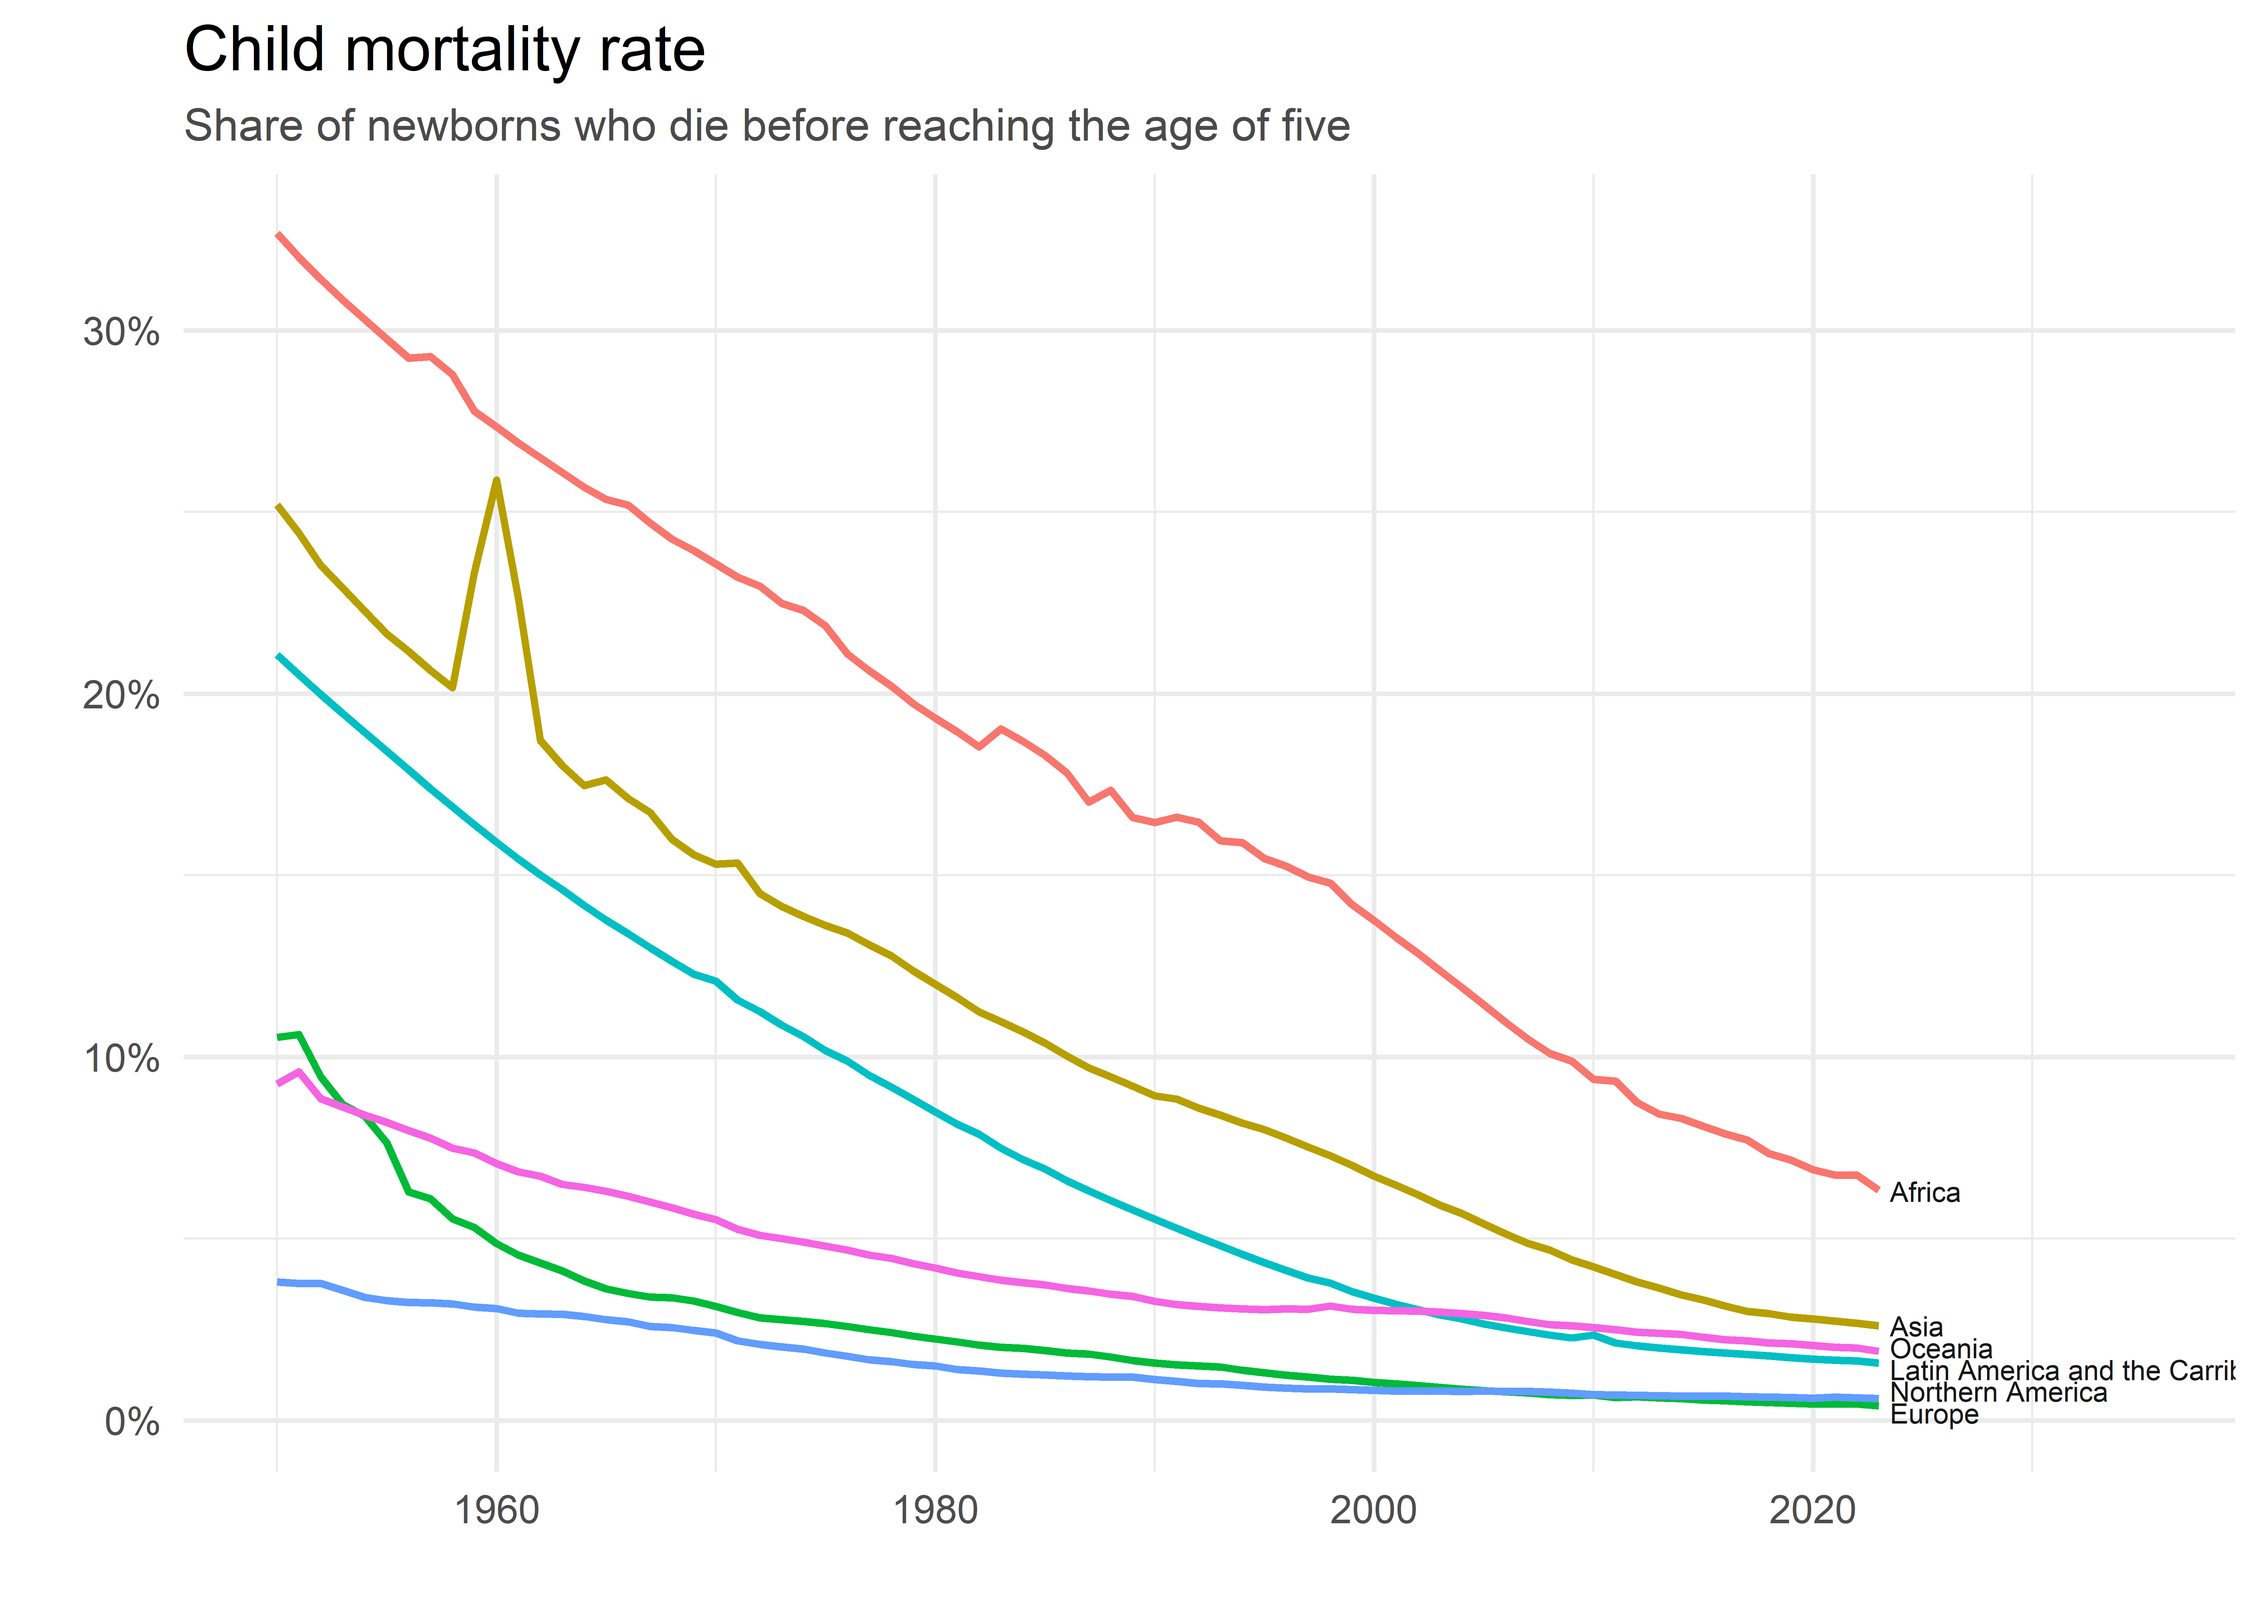
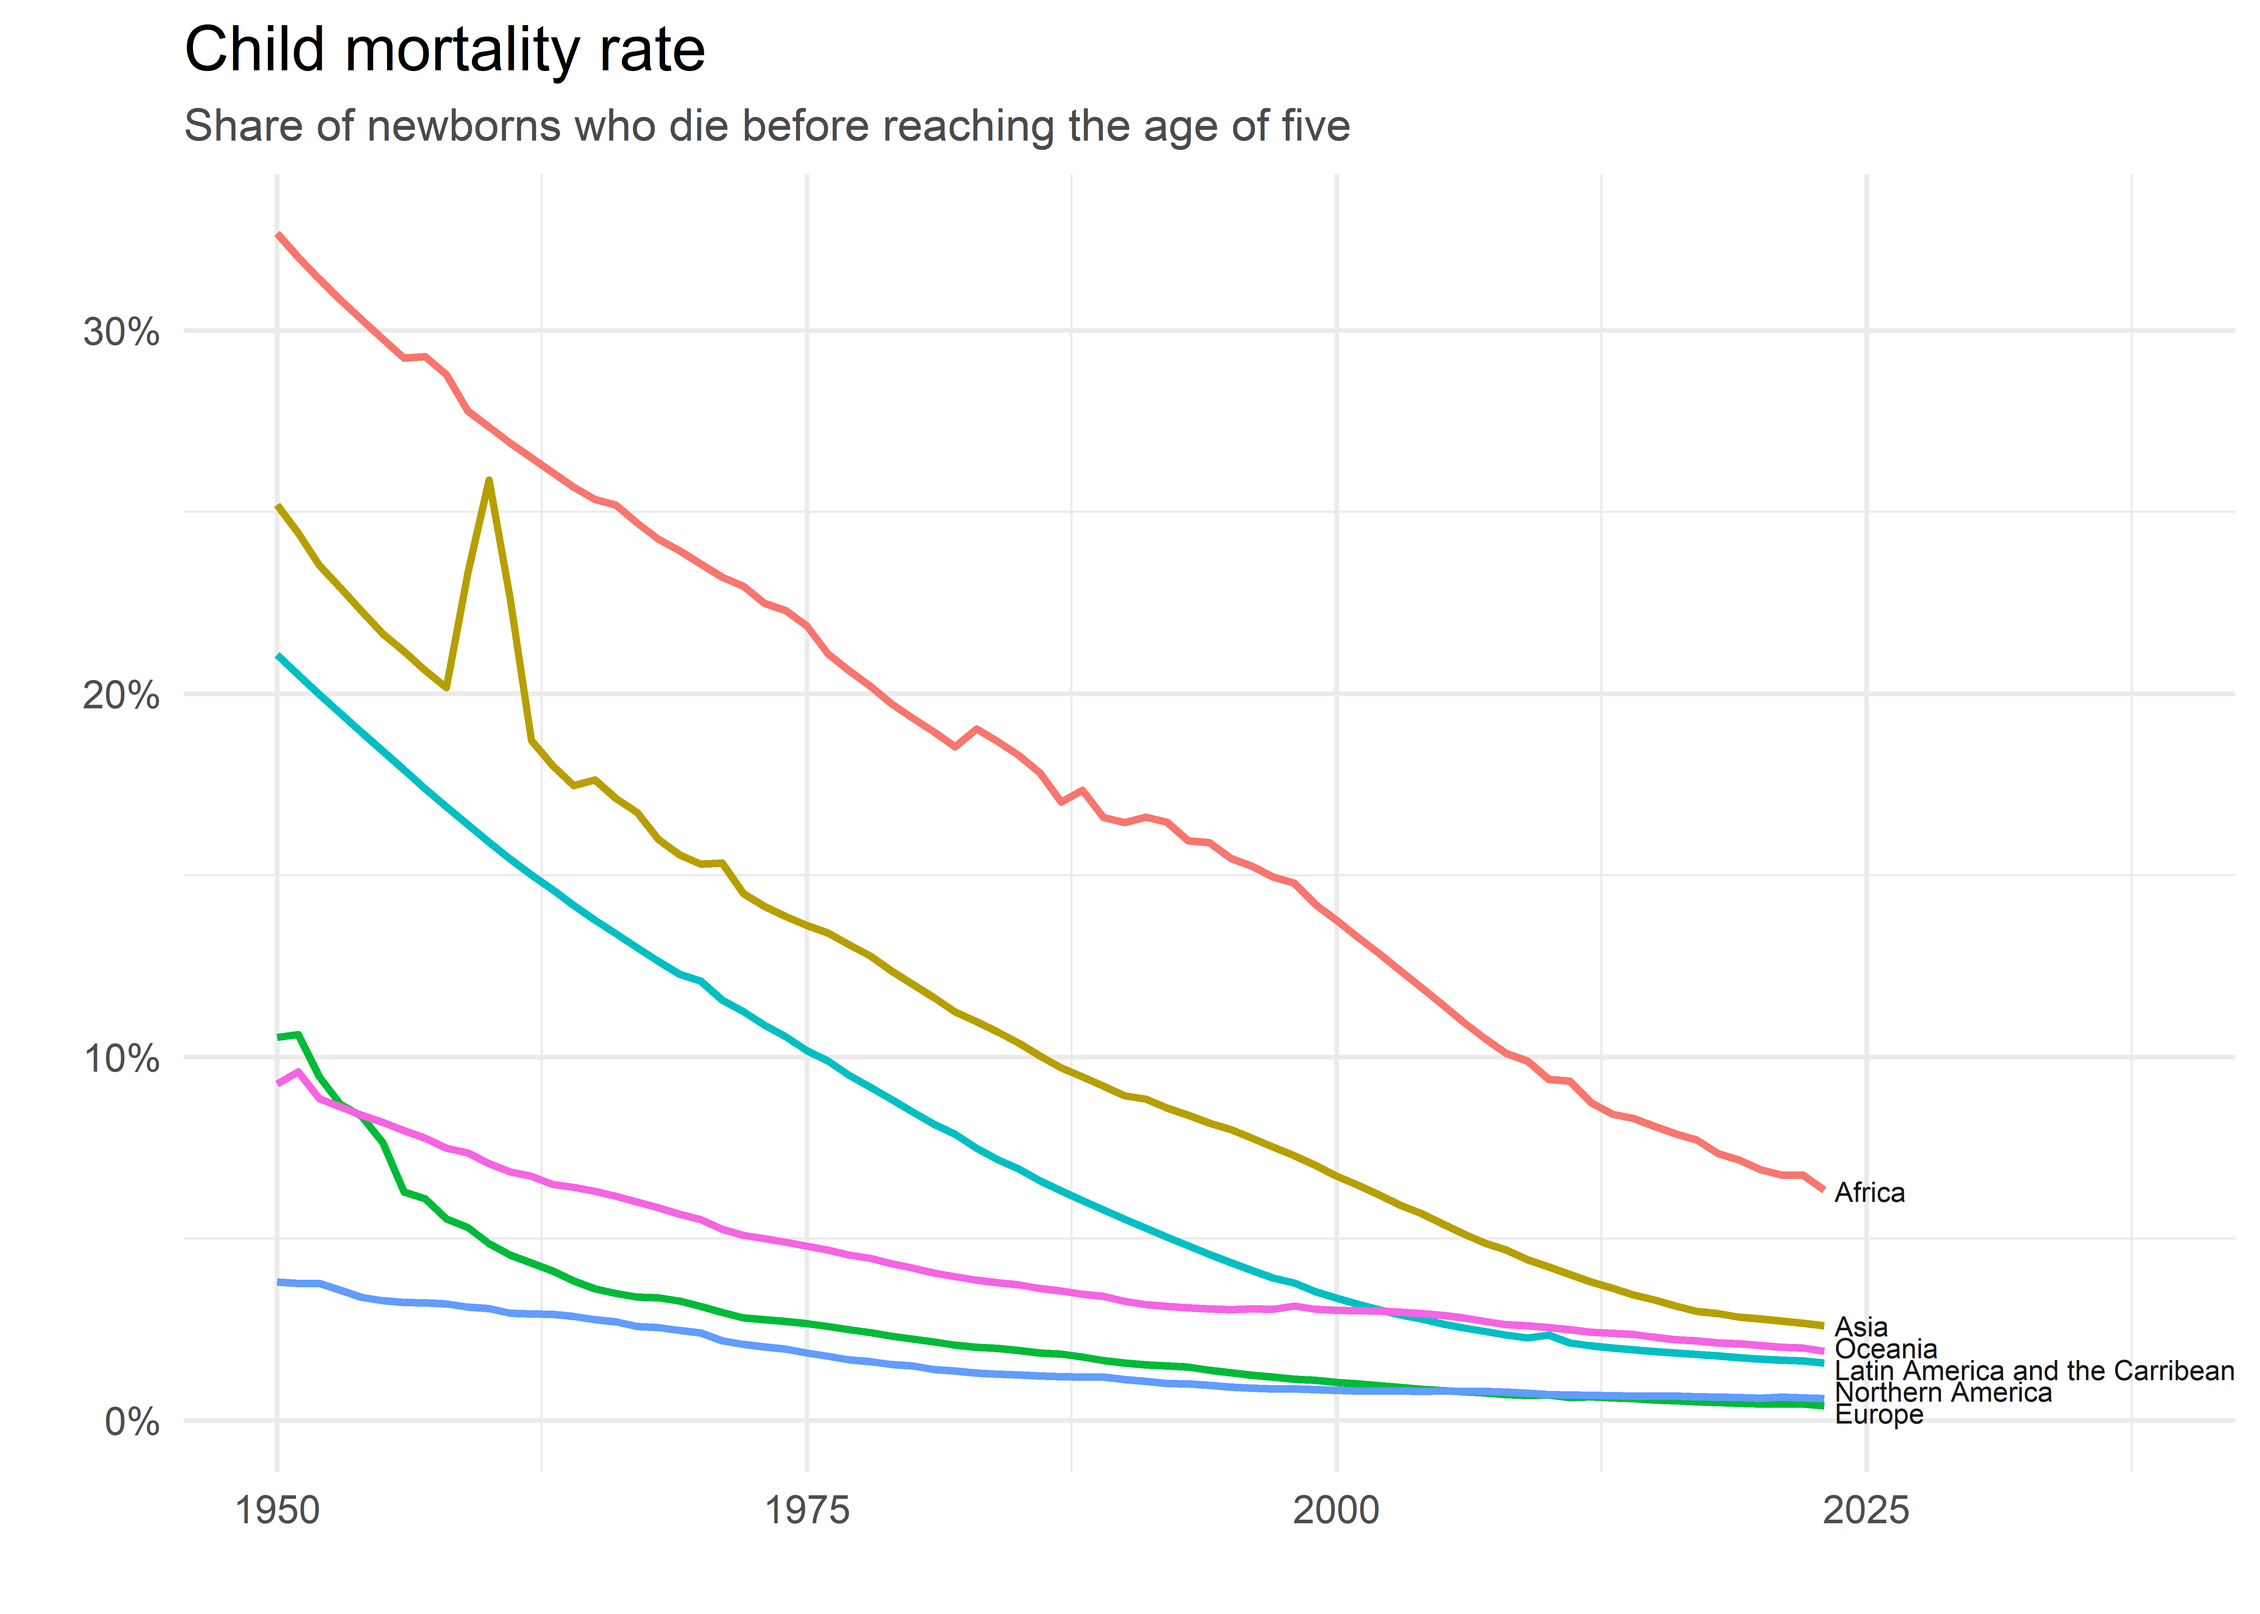
update blog lijn

diff --git a/docs/posts/2026-10-07-Lijndiagram/Lijndiagram.html b/docs/posts/2026-10-07-Lijndiagram/Lijndiagram.html
@@ -301,7 +301,7 @@ Tabel&nbsp;1: Data Kindersterfte in Our World in Data <span class="citation" dat
 </div>
 </figure>
 </div>
-<p><code>Entity</code> is een variabele met zes regio’s (Africa, Asia, Oceania, Latin America and the Caribbean, Northern America, en Europe), <code>Code</code> is een afkorting voor de Regio en is voor de visualisatie niet relevant, <code>Year</code> is het jaartal (elk jaar vanaf 1950 t/m 2023) en <code>Child mortality rate</code> bevat de kindersterfte als percentage. De eerste rij interpreteren we als volgt: in het jaar 1950 stierven naar schatting 32,6% van alle kinderen voor hun vijfde levensjaar. Eén op drie kinderen! In 2023 is dit nog 6,3% (1 op 16). Dit is vooruitgang.</p>
+<p><code>Entity</code> is een variabele met zes regio’s (Africa, Asia, Oceania, Latin America and the Caribbean, Northern America, en Europe), <code>Code</code> is een afkorting voor de Regio en is voor de visualisatie niet relevant, <code>Year</code> is het jaartal (elk jaar vanaf 1950 t/m 2023) en <code>Child mortality rate</code> bevat de kindersterfte als percentage. De eerste rij interpreteren we als volgt: in Afrika stierven er in het jaar 1950 naar schatting 32,6% van alle kinderen voor hun vijfde levensjaar. Eén op drie kinderen! In 2023 is dit nog 6,3% (1 op 16). Dit is vooruitgang.</p>
 <p>In deze blog bekijken we de relatie tussen het dataformaat en de datavisualisatie. Dezelfde gegevens kunnen immers op verschillende manieren gestructureerd worden. Die structuur bepaalt mee hoe eenvoudig een visualisatie kan worden gemaakt.</p>
 <p>Ik visualiseer dezelfde data op drie verschillende manieren: ten eerste in MS Excel, ten tweede in R met het ggplot2-pakket, en ten derde met de online tool Datawrapper.</p>
 <p>Drie verschillende manieren om een dezelfde figuur te maken maar op basis van een ander dataformaat: op basis van het lange en het wijde dataformaat. De dataset in <a href="#tbl-owid-kindersterfte" class="quarto-xref">Tabel&nbsp;1</a> volgt het lange dataformaat.</p>
@@ -413,7 +413,7 @@ Figuur&nbsp;4: Daling kindersterfte als Excelfiguur.
 6 Africa (UN) UN_AFR 1955              29.7653</code></pre>
 </div>
 </div>
-<p>We maken gebruik van <code>ggplot2</code> om een lijndiagram te maken.</p>
+<p>We maken gebruik van <code>ggplot2</code> om een lijndiagram te maken. Na de R code volgt de figuur.</p>
 <div class="cell">
 <div class="code-copy-outer-scaffold"><div class="sourceCode cell-code" id="cb3"><pre class="sourceCode r code-with-copy"><code class="sourceCode r"><span id="cb3-1"><a href="#cb3-1" aria-hidden="true" tabindex="-1"></a><span class="fu">library</span>(ggplot2)</span>
 <span id="cb3-2"><a href="#cb3-2" aria-hidden="true" tabindex="-1"></a><span class="fu">ggplot</span>(cm, <span class="fu">aes</span>(<span class="at">x =</span> Year, </span>
@@ -421,7 +421,7 @@ Figuur&nbsp;4: Daling kindersterfte als Excelfiguur.
 <span id="cb3-4"><a href="#cb3-4" aria-hidden="true" tabindex="-1"></a>               <span class="at">color =</span> Entity, <span class="at">group =</span> Entity)) <span class="sc">+</span></span>
 <span id="cb3-5"><a href="#cb3-5" aria-hidden="true" tabindex="-1"></a>  <span class="fu">geom_line</span>(<span class="at">linewidth =</span> <span class="fl">0.8</span>) <span class="sc">+</span></span>
 <span id="cb3-6"><a href="#cb3-6" aria-hidden="true" tabindex="-1"></a>  <span class="fu">scale_y_continuous</span>(<span class="at">labels =</span> <span class="cf">function</span>(x) <span class="fu">paste0</span>(x, <span class="st">"%"</span>)) <span class="sc">+</span> </span>
-<span id="cb3-7"><a href="#cb3-7" aria-hidden="true" tabindex="-1"></a>  <span class="fu">scale_x_continuous</span>(<span class="at">limits =</span> <span class="fu">c</span>(<span class="dv">1950</span>, <span class="dv">2035</span>)) <span class="sc">+</span></span>
+<span id="cb3-7"><a href="#cb3-7" aria-hidden="true" tabindex="-1"></a>  <span class="fu">scale_x_continuous</span>(<span class="at">limits =</span> <span class="fu">c</span>(<span class="dv">1950</span>, <span class="dv">2038</span>)) <span class="sc">+</span></span>
 <span id="cb3-8"><a href="#cb3-8" aria-hidden="true" tabindex="-1"></a>  <span class="fu">theme_minimal</span>() <span class="sc">+</span></span>
 <span id="cb3-9"><a href="#cb3-9" aria-hidden="true" tabindex="-1"></a>  <span class="fu">theme</span>(<span class="at">legend.position =</span> <span class="st">'none'</span>, </span>
 <span id="cb3-10"><a href="#cb3-10" aria-hidden="true" tabindex="-1"></a>         <span class="at">plot.subtitle =</span> <span class="fu">element_text</span>(</span>

diff --git a/docs/posts.html b/docs/posts.html
@@ -223,7 +223,7 @@ window.Quarto = {
 
 <div class="quarto-listing quarto-listing-container-grid" id="listing-listing">
 <div class="list grid quarto-listing-cols-3">
[2 lines of base64/hex data omitted]
 <a href="./posts/2026-10-07-Lijndiagram/Lijndiagram.html" class="quarto-grid-link">
 <div class="quarto-grid-item card h-100 card-left">
 <p class="card-img-top">
